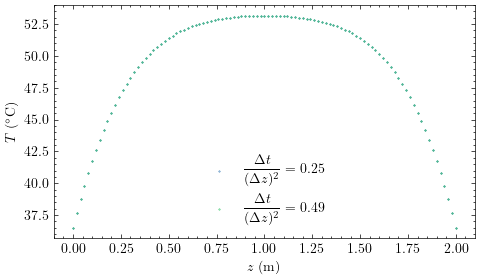
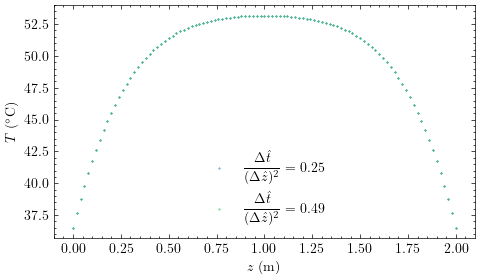
\hat added

Changed region(s): [[0.5, 0.5429, 0.6875, 0.6571], [0.5, 0.7143, 0.6875, 0.7714]]

diff --git a/GraficosAblacion.py b/GraficosAblacion.py
@@ -182,9 +182,9 @@ z = np.linspace(0, dz * 100 * Z, 101)
 
 plt.figure(figsize=(5, 3))
 plt.scatter(z, t0025file("cmake-build-debug/Ablacio_Explicit025.txt")
-            , label="$\dfrac{\Delta t}{(\Delta z)^2}=0.25$", s=0.1)
+            , label="$\dfrac{\Delta \hat{t}}{(\Delta \hat{z})^2}=0.25$", s=0.1)
 plt.scatter(z, t0025file("cmake-build-debug/Ablacio_Explicit049.txt")
-            , label="$\dfrac{\Delta t}{(\Delta z)^2}=0.49$", s=0.1)
+            , label="$\dfrac{\Delta \hat{t}}{(\Delta \hat{z})^2}=0.49$", s=0.1)
 plt.xlabel("$z$ (m)")
 plt.ylabel("$T$ ($^\circ$C)")
 plt.legend(loc='lower center')
@@ -194,7 +194,7 @@ plt.savefig("t_aexp025049.png")
 plt.show()
 
 plt.figure(figsize=(5, 3))
-plt.scatter(z, t0025file("cmake-build-debug/Ablacio_Explicit051.txt"), label="$\dfrac{\Delta t}{(\Delta z)^2}=0.51$",
+plt.scatter(z, t0025file("cmake-build-debug/Ablacio_Explicit051.txt"), label="$\dfrac{\Delta \hat{t}}{(\Delta \hat{z})^2}=0.51$",
             s=0.1)
 plt.xlabel("$z$ (m)")
 plt.ylabel("$T$ ($^\circ$C)")
@@ -205,8 +205,8 @@ plt.savefig("t_aexp050100.png")
 plt.show()
 
 plt.figure(figsize=(5, 3))
-plt.scatter(z, t0025file("cmake-build-debug/Ablacio_Implicit050.txt"), label="$\dfrac{\Delta t}{\Delta z}=0.5$", s=0.1)
-plt.scatter(z, t0025file("cmake-build-debug/Ablacio_Implicit100.txt"), label="$\dfrac{\Delta t}{\Delta z}=1$", s=0.1)
+plt.scatter(z, t0025file("cmake-build-debug/Ablacio_Implicit050.txt"), label="$\dfrac{\Delta \hat{t}}{\Delta \hat{z}}=0.5$", s=0.1)
+plt.scatter(z, t0025file("cmake-build-debug/Ablacio_Implicit100.txt"), label="$\dfrac{\Delta \hat{t}}{\Delta \hat{z}}=1$", s=0.1)
 plt.xlabel("$z$ (m)")
 plt.ylabel("$T$ ($^\circ$C)")
 plt.legend(loc='lower center')
